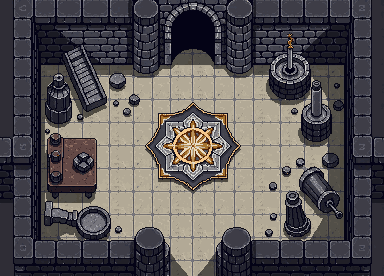
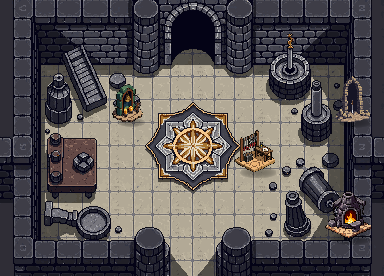
art pipeline: bake the hub stations into the Citadel deck, redraw the hero to match
The Forge furnace, Reliquary Gate, Comms shrine and Quartermaster's rack are now
painted into hub.citadel-deck.png as relics at the deck's own pixel pitch, with
baked contact shadows, so nothing is composited at runtime and nothing reads as
pasted on. render/hub.ts only draws what moves — the turning portal rings and the
characters — and a station is just an {x,y,radius} hotspot on the image.

The hero is re-authored at that same pitch (28x48, worldScale 0.667) so the
dungeon footprint is unchanged (48 * 0.667 = 32) while it reads chunkier and
lower-res, matching the deck. The hub draws it larger through its own figure-
height rule.

Station coordinates in game/hub.ts retuned against the baked art; smoke test's
hub layout walk still passes.

diff --git a/src/render/hub.ts b/src/render/hub.ts
@@ -1,8 +1,13 @@
 /**
- * Draws the ship. A small fixed space, so unlike the dungeon it never scrolls — the
- * whole hub is scaled to fit the viewport and drawn once. Portals borrow the exact
- * glyph a dungeon's own exit uses; the two terminal-shaped stations get a simple
- * console prop instead, in the same "procedural, not a sprite" spirit as a trap.
+ * Draws the Citadel of the Threshold — the hub deck. A small fixed space, so unlike the
+ * dungeon it never scrolls: the whole hall is scaled to fit the viewport and drawn once.
+ *
+ * The hall and its stations are **one baked image** (`hub.citadel-deck`, §4): the Forge
+ * furnace, the Reliquary Gate doorway, the Comms shrine and the Quartermaster's rack are
+ * painted into it as relics from dead civilisations, at the deck's own pixel pitch, so
+ * nothing is composited at runtime and nothing reads as pasted on. This module only adds
+ * what has to move: an animated summoning ring over each portal point, and the hero and
+ * co-op mates. A station is just an `{x, y, radius}` hotspot on that image.
  */
 
 import type { Appearance } from "../data/cosmetics";
@@ -21,7 +26,17 @@ const STATION_COLORS: Record<HubStationKind, string> = {
   comms: "#22d3ee", party: "#22d3ee",
 };
 
+/** The kinds you step *into* — a turning summoning ring is drawn over the deck for these.
+ *  Everything else is a relic already painted into the deck image. */
 const PORTAL_KINDS = new Set<HubStationKind>(["dive", "abyss", "hoard", "expedition", "party"]);
+
+/** A person's drawn height on the deck, in hub units — cosmetic and local to this scene.
+ *  The dungeon sizes the same sprite by its manifest `worldScale` instead. */
+const HUB_FIGURE_H = 74;
+
+function figureScale(canvas: HTMLCanvasElement): number {
+  return Math.min(2.4, HUB_FIGURE_H / canvas.height);
+}
 
 export function renderHub(
   ctx: CanvasRenderingContext2D, hub: Hub, appearance: Appearance, viewW: number, viewH: number,
@@ -38,8 +53,8 @@ export function renderHub(
   ctx.scale(scale, scale);
   ctx.imageSmoothingEnabled = false;
 
-  drawDeck(ctx);
-  for (const s of hub.stations) drawStation(ctx, s, time, s === near);
+  const deckLoaded = drawDeck(ctx);
+  for (const s of hub.stations) drawStation(ctx, s, time, s === near, deckLoaded);
 
   // Everyone else in the room is walking around their own copy of this deck; their
   // positions arrive over the relay a dozen times a second and are drawn here.
@@ -48,7 +63,9 @@ export function renderHub(
   }
 
   const body = heroSprite(appearance);
-  drawSprite(ctx, body.canvas, hub.x, hub.y, Math.cos(hub.facing) < 0, body.scale, body.feet);
+  const bscale = figureScale(body.canvas);
+  deckShadow(ctx, hub.x, hub.y, body.canvas.width * bscale * 0.5);
+  drawSprite(ctx, body.canvas, hub.x, hub.y, Math.cos(hub.facing) < 0, bscale, body.feet);
   ctx.restore();
 
   if (near) {
@@ -68,23 +85,25 @@ function drawMate(ctx: CanvasRenderingContext2D, mate: HubMate): void {
     ctx.save();
     ctx.globalAlpha = 0.95;
     const mb = heroSprite(mate.appearance);
-    drawSprite(ctx, mb.canvas, mate.x, mate.y, Math.cos(mate.facing) < 0, mb.scale, mb.feet);
+    const ms = figureScale(mb.canvas);
+    deckShadow(ctx, mate.x, mate.y, mb.canvas.width * ms * 0.5);
+    drawSprite(ctx, mb.canvas, mate.x, mate.y, Math.cos(mate.facing) < 0, ms, mb.feet);
     ctx.restore();
   }
   ctx.save();
   ctx.textAlign = "center";
   ctx.font = `bold 9px ${MONO}`;
   ctx.fillStyle = mate.ready ? "#4ade80" : "#9aa4b2";
-  ctx.fillText(`${mate.ready ? "\u2713 " : ""}${mate.name.toUpperCase()}`, mate.x, mate.y - 26);
+  ctx.fillText(`${mate.ready ? "✓ " : ""}${mate.name.toUpperCase()}`, mate.x, mate.y - 26);
   ctx.restore();
 }
 
 /**
- * The Citadel of the Threshold — the hub floor (§4). A baked top-down backdrop stretched
- * to fill the fixed hub viewport, with the stations drawn on top of it. Falls back to a
- * plain ash fill until the atlas has loaded, so the first frame is never black.
+ * The Citadel deck (§4) — the whole hall with its stations, baked. Stretched to fill the
+ * fixed hub viewport. Returns whether the image was actually there; a plain ash fill
+ * stands in for the first frames, and the stations draw a marker until it loads.
  */
-function drawDeck(ctx: CanvasRenderingContext2D): void {
+function drawDeck(ctx: CanvasRenderingContext2D): boolean {
   const deck = atlasCanvas("hub.citadel-deck");
   if (deck) {
     ctx.imageSmoothingEnabled = false;
@@ -94,62 +113,118 @@ function drawDeck(ctx: CanvasRenderingContext2D): void {
     ctx.fillRect(0, 0, HUB_WIDTH, HUB_HEIGHT);
   }
 
-  // A heavy dark frame so the deck reads as an enclosed hall, not an open plane.
-  ctx.strokeStyle = "rgba(0,0,0,0.6)";
-  ctx.lineWidth = 12;
-  ctx.strokeRect(3, 3, HUB_WIDTH - 6, HUB_HEIGHT - 6);
-  ctx.strokeStyle = "rgba(201,194,180,0.22)";
-  ctx.lineWidth = 2;
-  ctx.strokeRect(6, 6, HUB_WIDTH - 12, HUB_HEIGHT - 12);
+  // A thin dark vignette frame so the deck reads as an enclosed hall at any viewport size.
+  ctx.strokeStyle = "rgba(0,0,0,0.5)";
+  ctx.lineWidth = 8;
+  ctx.strokeRect(2, 2, HUB_WIDTH - 4, HUB_HEIGHT - 4);
+  return !!deck;
 }
 
-function drawStation(ctx: CanvasRenderingContext2D, s: HubStation, time: number, active: boolean): void {
+function drawStation(
+  ctx: CanvasRenderingContext2D, s: HubStation, time: number, active: boolean, deckLoaded: boolean,
+): void {
   const color = STATION_COLORS[s.kind];
+
   if (PORTAL_KINDS.has(s.kind)) {
-    drawPortalGlyph(ctx, s.x, s.y, time, color, 1);
-  } else {
+    drawPortalPad(ctx, s, color, time);
+  } else if (!deckLoaded) {
+    // The relic lives in the deck image; if that hasn't loaded, leave a marker so the
+    // station isn't just a floating word.
+    deckShadow(ctx, s.x, s.y, s.radius * 1.1);
     drawTerminal(ctx, s.x, s.y, color, time);
   }
 
   ctx.save();
   ctx.textAlign = "center";
   ctx.font = `bold 10px ${MONO}`;
-  ctx.fillStyle = active ? "#ffffff" : "#9aa4b2";
-  ctx.fillText(s.label.toUpperCase(), s.x, s.y + s.radius + 22);
+  ctx.fillStyle = active ? "#ffffff" : "rgba(232,238,247,0.82)";
+  ctx.shadowColor = "rgba(0,0,0,0.9)";
+  ctx.shadowBlur = 3;
+  ctx.fillText(s.label.toUpperCase(), s.x, s.y + s.radius + 15);
   if (active) {
+    ctx.shadowBlur = 0;
     ctx.globalAlpha = 0.55 + Math.sin(time * 6) * 0.3;
     ctx.strokeStyle = color;
     ctx.lineWidth = 1.5;
     ctx.beginPath();
-    ctx.arc(s.x, s.y, s.radius + 15, 0, Math.PI * 2);
+    ctx.ellipse(s.x, s.y, s.radius + 15, (s.radius + 15) * 0.42, 0, 0, Math.PI * 2);
     ctx.stroke();
   }
   ctx.restore();
 }
 
-/** A terminal: a dark console with a lit, flickering screen. Used for the star map,
- *  the forge and the quartermaster — the "walk up and interact with a menu" stations. */
+/**
+ * A portal: a ring inscribed in the flagstone with the shared summoning glyph turning
+ * above it. Grounded in the floor on purpose — a portal you can walk into should read as
+ * part of the hall, not a decal floating over it.
+ */
+function drawPortalPad(
+  ctx: CanvasRenderingContext2D, s: HubStation, color: string, time: number,
+): void {
+  const r = s.radius + 6;
+  ctx.save();
+  ctx.strokeStyle = "rgba(0,0,0,0.45)";
+  ctx.lineWidth = 3;
+  ctx.beginPath();
+  ctx.ellipse(s.x, s.y, r, r * 0.42, 0, 0, Math.PI * 2);
+  ctx.stroke();
+  ctx.globalAlpha = 0.38 + Math.sin(time * 2 + s.x) * 0.1;
+  ctx.strokeStyle = color;
+  ctx.lineWidth = 1.5;
+  ctx.beginPath();
+  ctx.ellipse(s.x, s.y, r, r * 0.42, 0, 0, Math.PI * 2);
+  ctx.stroke();
+  ctx.restore();
+
+  portalBloom(ctx, s.x, s.y, color, 0.28);
+  ctx.save();
+  ctx.translate(s.x, s.y);
+  ctx.scale(0.62, 0.62);
+  drawPortalGlyph(ctx, 0, 0, time, color, 1);
+  ctx.restore();
+}
+
+/** Soft contact shadow so a person sits on the flagstone rather than over it. */
+function deckShadow(ctx: CanvasRenderingContext2D, x: number, y: number, rx: number): void {
+  ctx.save();
+  ctx.globalAlpha = 0.3;
+  ctx.fillStyle = "#000";
+  ctx.beginPath();
+  ctx.ellipse(x, y, rx, rx * 0.33, 0, 0, Math.PI * 2);
+  ctx.fill();
+  ctx.restore();
+}
+
+/** A bloom of a portal's colour rising off the ring — the light before the glyph. */
+function portalBloom(
+  ctx: CanvasRenderingContext2D, x: number, y: number, color: string, strength: number,
+): void {
+  const grad = ctx.createRadialGradient(x, y, 0, x, y, 36);
+  grad.addColorStop(0, color);
+  grad.addColorStop(1, color + "00");
+  ctx.save();
+  ctx.globalAlpha = strength;
+  ctx.fillStyle = grad;
+  ctx.beginPath();
+  ctx.arc(x, y, 36, 0, Math.PI * 2);
+  ctx.fill();
+  ctx.restore();
+}
+
+/** Fallback marker for a relic station in the frames before the deck image loads. */
 function drawTerminal(ctx: CanvasRenderingContext2D, x: number, y: number, color: string, time: number): void {
   ctx.save();
   ctx.fillStyle = "rgba(0,0,0,0.35)";
   ctx.beginPath();
   ctx.ellipse(x, y + 20, 20, 7, 0, 0, Math.PI * 2);
   ctx.fill();
-
   ctx.fillStyle = "#1c2029";
   ctx.fillRect(x - 15, y - 18, 30, 32);
   ctx.strokeStyle = "rgba(255,255,255,0.14)";
   ctx.lineWidth = 1;
   ctx.strokeRect(x - 15, y - 18, 30, 32);
-
   ctx.globalAlpha = 0.55 + Math.sin(time * 3) * 0.25;
   ctx.fillStyle = color;
   ctx.fillRect(x - 11, y - 14, 22, 15);
-  ctx.globalAlpha = 1;
-
-  ctx.fillStyle = "#0c0e14";
-  ctx.fillRect(x - 10, y + 5, 20, 3);
-  ctx.fillRect(x - 4, y + 8, 8, 9);
-  ctx.fillRect(x - 12, y + 17, 24, 4);
   ctx.restore();
 }

diff --git a/src/render/atlas/manifest.ts b/src/render/atlas/manifest.ts
@@ -48,10 +48,15 @@ export const ATLAS: Record<string, AtlasSprite> = {
   // character (30×26 grid at SPRITE_SCALE 1.2 ≈ 31 world units tall) while the player
   // isn't wearing a composited cosmetic layer (hat/ears/face/back) — those layers are
   // still procedural until their own art pass, so a decorated character keeps the old
-  // look for now. v2 redraw (Sept 2026): higher detail to sit alongside the redrawn
-  // bosses — the owner's call that the plain low-res hero "looked out of place in a
-  // boss fight". World footprint unchanged: 68px × 0.471 ≈ 32, same as the v1 sprite.
-  "hero.legend-base": { id: "hero.legend-base", w: 39, h: 68, worldScale: 0.471, feet: 0.04 },
+  // look for now.
+  //
+  // v3 redraw (Sept 2026): re-authored at the Citadel deck's pixel pitch — chunkier and
+  // stockier, low top-down, muted stone palette — so the hero reads as standing *in* the
+  // world, not pasted over it (the owner's "two PNGs on top of each other" note). Still
+  // the plain calm face. Footprint unchanged: 48 * 0.667 = 32, the same height as v1/v2,
+  // so no hitbox / telegraph / camera moves. The hub draws it larger through its own
+  // figure-height rule (render/hub.ts) — cosmetic and local to the hub scene.
+  "hero.legend-base": { id: "hero.legend-base", w: 28, h: 48, worldScale: 0.667, feet: 0.03 },
 
   // --- monsters (§10) --- worldScale ≈ predecessor grid height × SPRITE_SCALE (1.2),
   // then ~1.13× for legibility (the rot-scuttler precedent). Legacy grids: imp/ranger
@@ -150,8 +155,12 @@ export interface AtlasScene {
 }
 
 export const SCENES: Record<string, AtlasScene> = {
-  // §4 The Citadel of the Threshold — the hub deck. Drawn scaled to HUB_WIDTH×HUB_HEIGHT
-  // (640×460, same 1.39 aspect) under the stations. Replaces the old black void + grid.
+  // §4 The Citadel of the Threshold — the hub deck, drawn scaled to HUB_WIDTH x HUB_HEIGHT
+  // (640x460, same 1.39 aspect). The whole hall *and its stations* are baked into this
+  // one image: the Forge furnace, the Reliquary Gate doorway, the Comms shrine and the
+  // Quartermaster's rack are painted in as relics at the deck's own pixel pitch, so
+  // render/hub.ts composites nothing at runtime — it only adds the turning portal rings
+  // and the moving characters. Replaces the old black void + grid.
   "hub.citadel-deck": { id: "hub.citadel-deck", w: 384, h: 276 },
 };
 

diff --git a/src/game/hub.ts b/src/game/hub.ts
@@ -49,21 +49,26 @@ export const HUB_PLAYER_RADIUS = 9;
 /** How close counts as "at" a station — generous, since there's nothing to dodge here. */
 const INTERACT_RANGE = 34;
 
+// Positions are tuned against the Citadel deck art (render/atlas/scenes/hub.citadel-deck):
+// the Delve and the two rifts are portal pads on the open flagstone, the Abyssal Rift
+// sits in the deck's central archway, and the four relic stations tuck against the walls
+// clear of the deck's own rubble. See render/hub.ts for how each is drawn.
 const FIXED_STATIONS: readonly HubStation[] = [
-  { kind: "dive", label: "The Delve", x: 170, y: 100, radius: 24 },
-  { kind: "abyss", label: "Abyssal Rift", x: 320, y: 80, radius: 24 },
-  { kind: "hoard", label: "Hoard Rift", x: 470, y: 100, radius: 24 },
-  { kind: "starmap", label: "Reliquary Gate", x: 80, y: 280, radius: 20 },
-  { kind: "forge", label: "The Forge", x: 560, y: 280, radius: 20 },
-  { kind: "quartermaster", label: "Quartermaster", x: 320, y: 280, radius: 20 },
-  { kind: "comms", label: "Comms Relay", x: 80, y: 130, radius: 20 },
+  { kind: "dive", label: "The Delve", x: 120, y: 150, radius: 24 },
+  { kind: "abyss", label: "Abyssal Rift", x: 320, y: 62, radius: 24 },
+  { kind: "hoard", label: "Hoard Rift", x: 420, y: 150, radius: 24 },
+  { kind: "starmap", label: "Reliquary Gate", x: 587, y: 200, radius: 20 },
+  { kind: "forge", label: "The Forge", x: 580, y: 393, radius: 20 },
+  { kind: "quartermaster", label: "Quartermaster", x: 425, y: 283, radius: 20 },
+  { kind: "comms", label: "Comms Relay", x: 213, y: 200, radius: 20 },
 ];
 
-/** Where a chosen sector's portal stands once the Reliquary Gate has picked one. */
-const EXPEDITION_SPOT = { x: 320, y: 185 };
+/** Where a chosen sector's portal stands once the Reliquary Gate has picked one — open
+ *  floor left of the central seal. */
+const EXPEDITION_SPOT = { x: 270, y: 250 };
 /** Where the party portal opens once you're in a room. Near the spawn on purpose —
  *  "everyone walk into the portal" should be a two second walk, not a hike. */
-const PARTY_SPOT = { x: 170, y: 372 };
+const PARTY_SPOT = { x: 185, y: 388 };
 /** Standing this close to the party portal counts as being in it. */
 const PARTY_PORTAL_RADIUS = 30;
 
